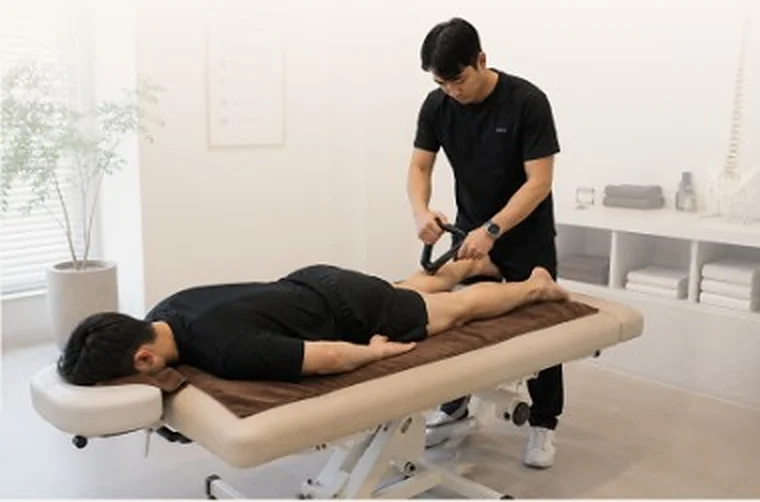
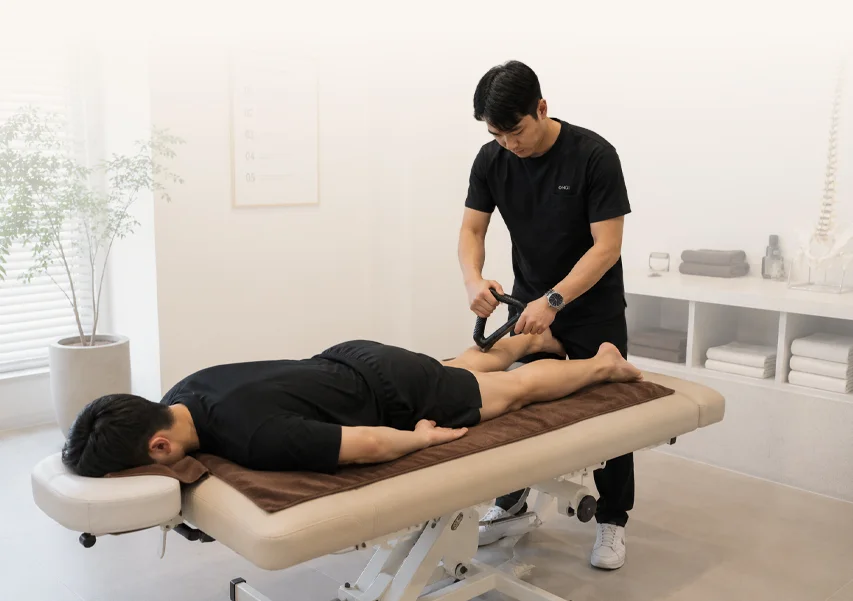
진행 과정 사진을 원본으로 교체 (공간·평가·이완 3장·트레이너·영상 화면)
Claude-Session: https://claude.ai/code/session_014PxsBcKEwYSWPXquPcVwqX

Changed region(s): [[0.0, 0.0299, 1.0, 1.0], [0.9382, 0.2988, 0.9684, 0.3586], [0.8776, 0.7769, 0.9079, 0.8068]]

diff --git a/src/config/site.ts b/src/config/site.ts
@@ -67,7 +67,7 @@ export const JOURNEY = {
   steps: [
     { n: "방문", img: ["/journey/visit.webp"], t: "예약한 시간에 1:1로", d: "100% 예약제라 기다림 없이 담당 선생님과 바로 시작해요. 운동복이 준비되어 있어 편하게 오시면 됩니다." },
     { n: "01", tag: "평가", img: ["/journey/assess-l.webp", "/journey/assess-r.webp"], t: "몸 전체를 먼저 살펴봐요", d: "생활 습관, 운동 경험, 신경 쓰이는 움직임을 듣고, 불편한 부위만이 아니라 몸 전체의 연결과 움직임 패턴을 함께 봅니다." },
-    { n: "02", tag: "RESET · 이완", img: ["/journey/iastm-l.webp", "/journey/iastm-r.webp"], t: "굳은 곳을 부드럽게 정리해요", d: "IASTM 스테인리스 도구로 긴장된 연부조직을 이완해 움직임의 여유를 만듭니다. 강한 자극보다 그날의 몸 상태에 맞춰 강도를 조절해요." },
+    { n: "02", tag: "RESET · 이완", img: ["/journey/iastm-l.webp", "/journey/iastm-r.webp", "/journey/iastm-3.webp"], t: "굳은 곳을 부드럽게 정리해요", d: "IASTM 스테인리스 도구로 긴장된 연부조직을 이완해 움직임의 여유를 만듭니다. 강한 자극보다 그날의 몸 상태에 맞춰 강도를 조절해요." },
     { n: "03", tag: "RELOAD · 활성화", t: "잠들어 있던 움직임을 깨워요", d: "이완 직후 몸의 반응이 가장 좋은 타이밍에, 잘 쓰지 못하던 움직임 감각을 다시 깨웁니다." },
     { n: "04", tag: "RELOAD · 강화", t: "다시 쓸 수 있게 채워요", d: "되찾은 움직임을 스스로 안정적으로 쓸 수 있도록 맞춤 강화운동으로 이어갑니다." },
     { n: "05", tag: "재확인", t: "달라진 움직임을 함께 확인해요", d: "처음과 비교해 움직임이 어떻게 달라졌는지 함께 보고, 다음 방향을 정합니다." },

diff --git a/src/app/globals.css b/src/app/globals.css
@@ -422,7 +422,7 @@ a.primary.pt-book { display: block; text-align: center; margin-top: 14px; text-d
 .j-cta{align-self:center;margin-top:6px;min-width:240px}
 @media (min-width:641px){.j-expect{grid-template-columns:repeat(4,1fr)}}
 
-.j-photo{width:100%;border-radius:14px;aspect-ratio:380/251;object-fit:cover;display:block}
+.j-photo{width:100%;border-radius:14px;aspect-ratio:853/601;object-fit:cover;display:block}
 .j-imgs{display:grid;gap:6px;margin-top:10px}
 .j-imgs.n2{grid-template-columns:1fr 1fr}
 .j-imgs img{width:100%;border-radius:10px;display:block;object-fit:cover}
@@ -527,3 +527,5 @@ a.primary.pt-book { display: block; text-align: center; margin-top: 14px; text-d
 .an-dots{margin:0;padding-left:18px;display:flex;flex-direction:column;gap:4px;font-size:14px;line-height:1.6}
 .an-letter p{text-align:center;color:var(--brown)}
 .an-sign{text-align:right;font-family:var(--display);color:var(--brown);font-weight:700;margin-top:6px!important}
+.j-imgs.n3{grid-template-columns:1fr 1fr 1fr}
+.j-imgs.n3 img{aspect-ratio:3/4}
